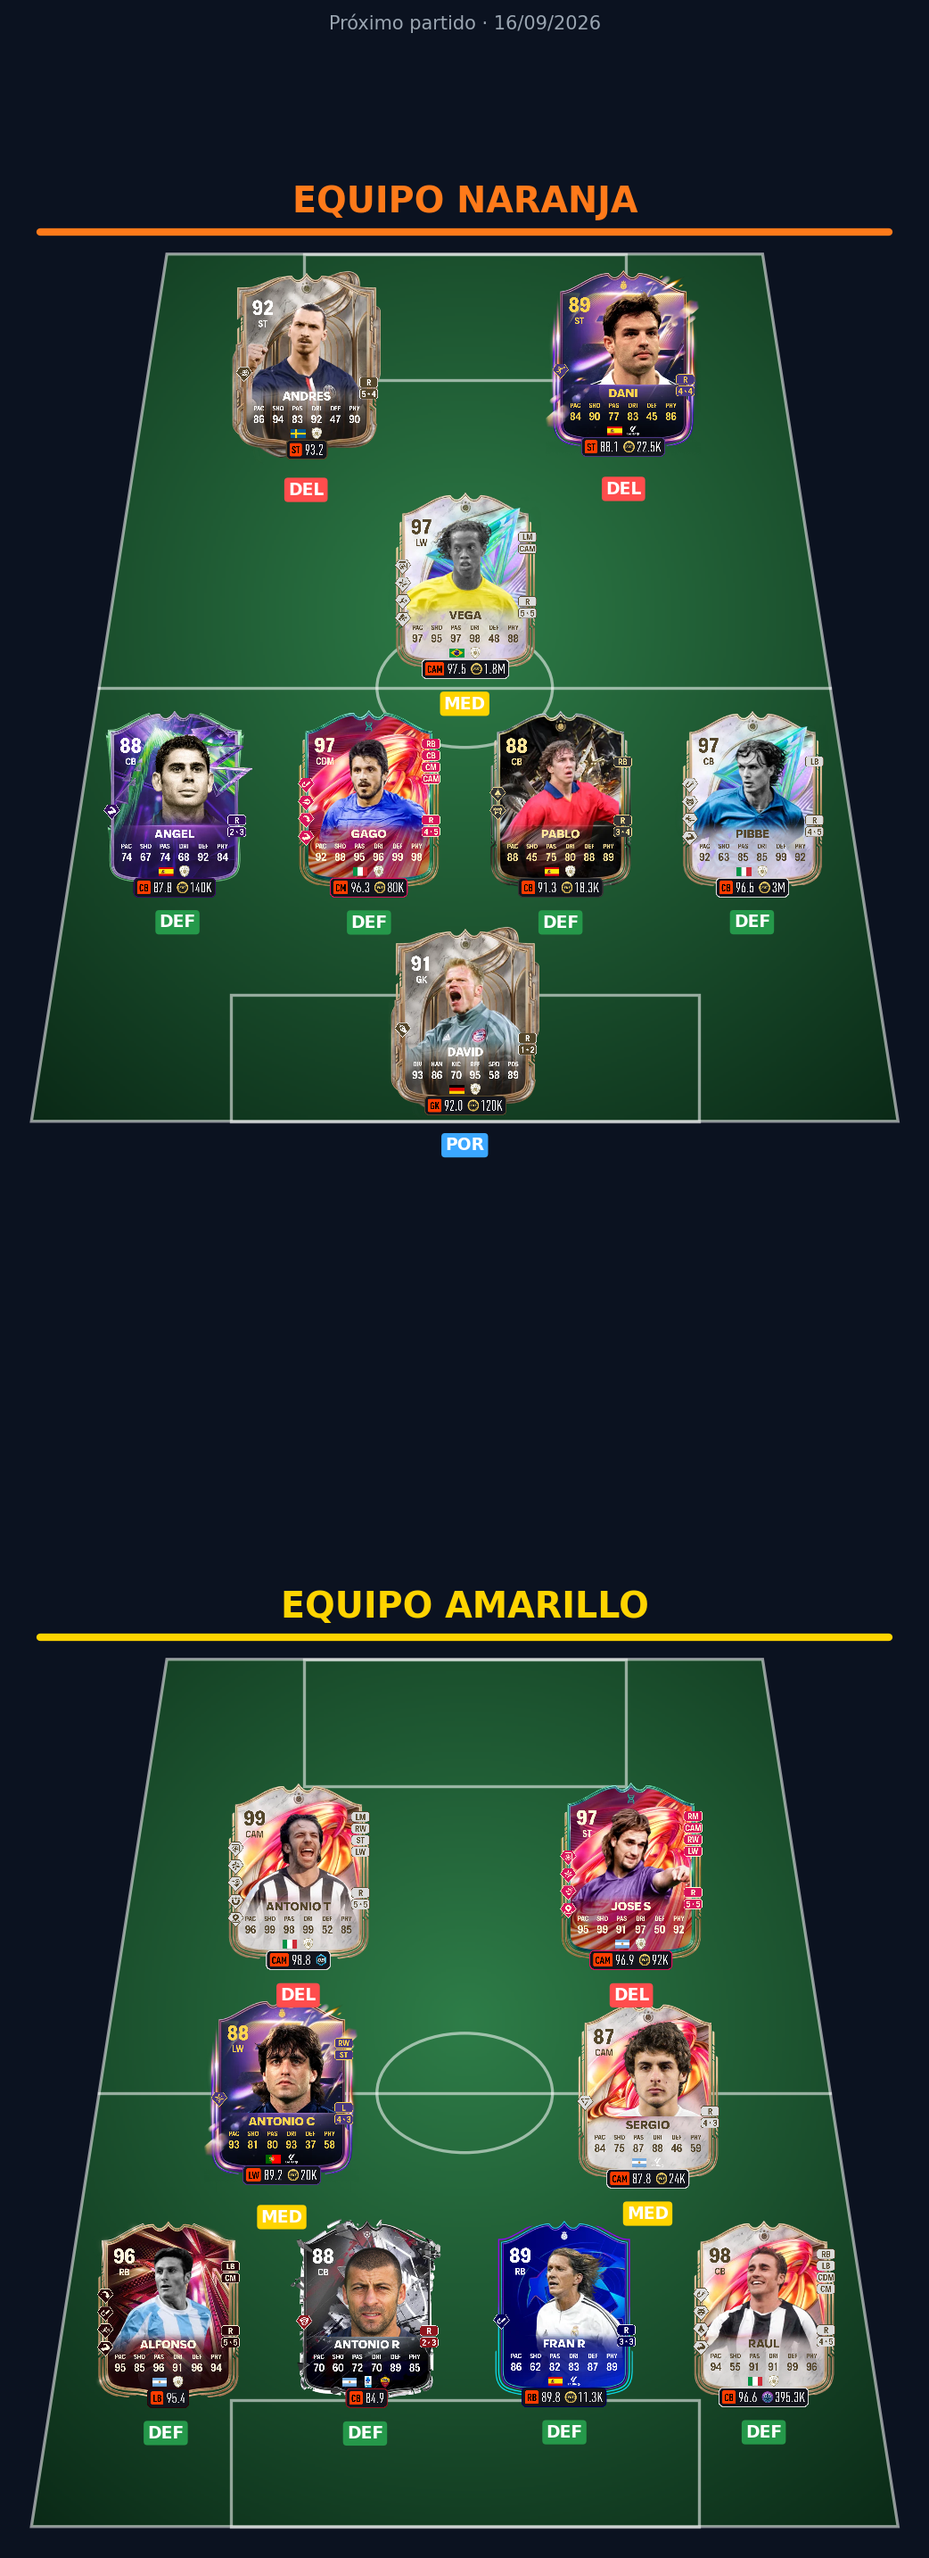
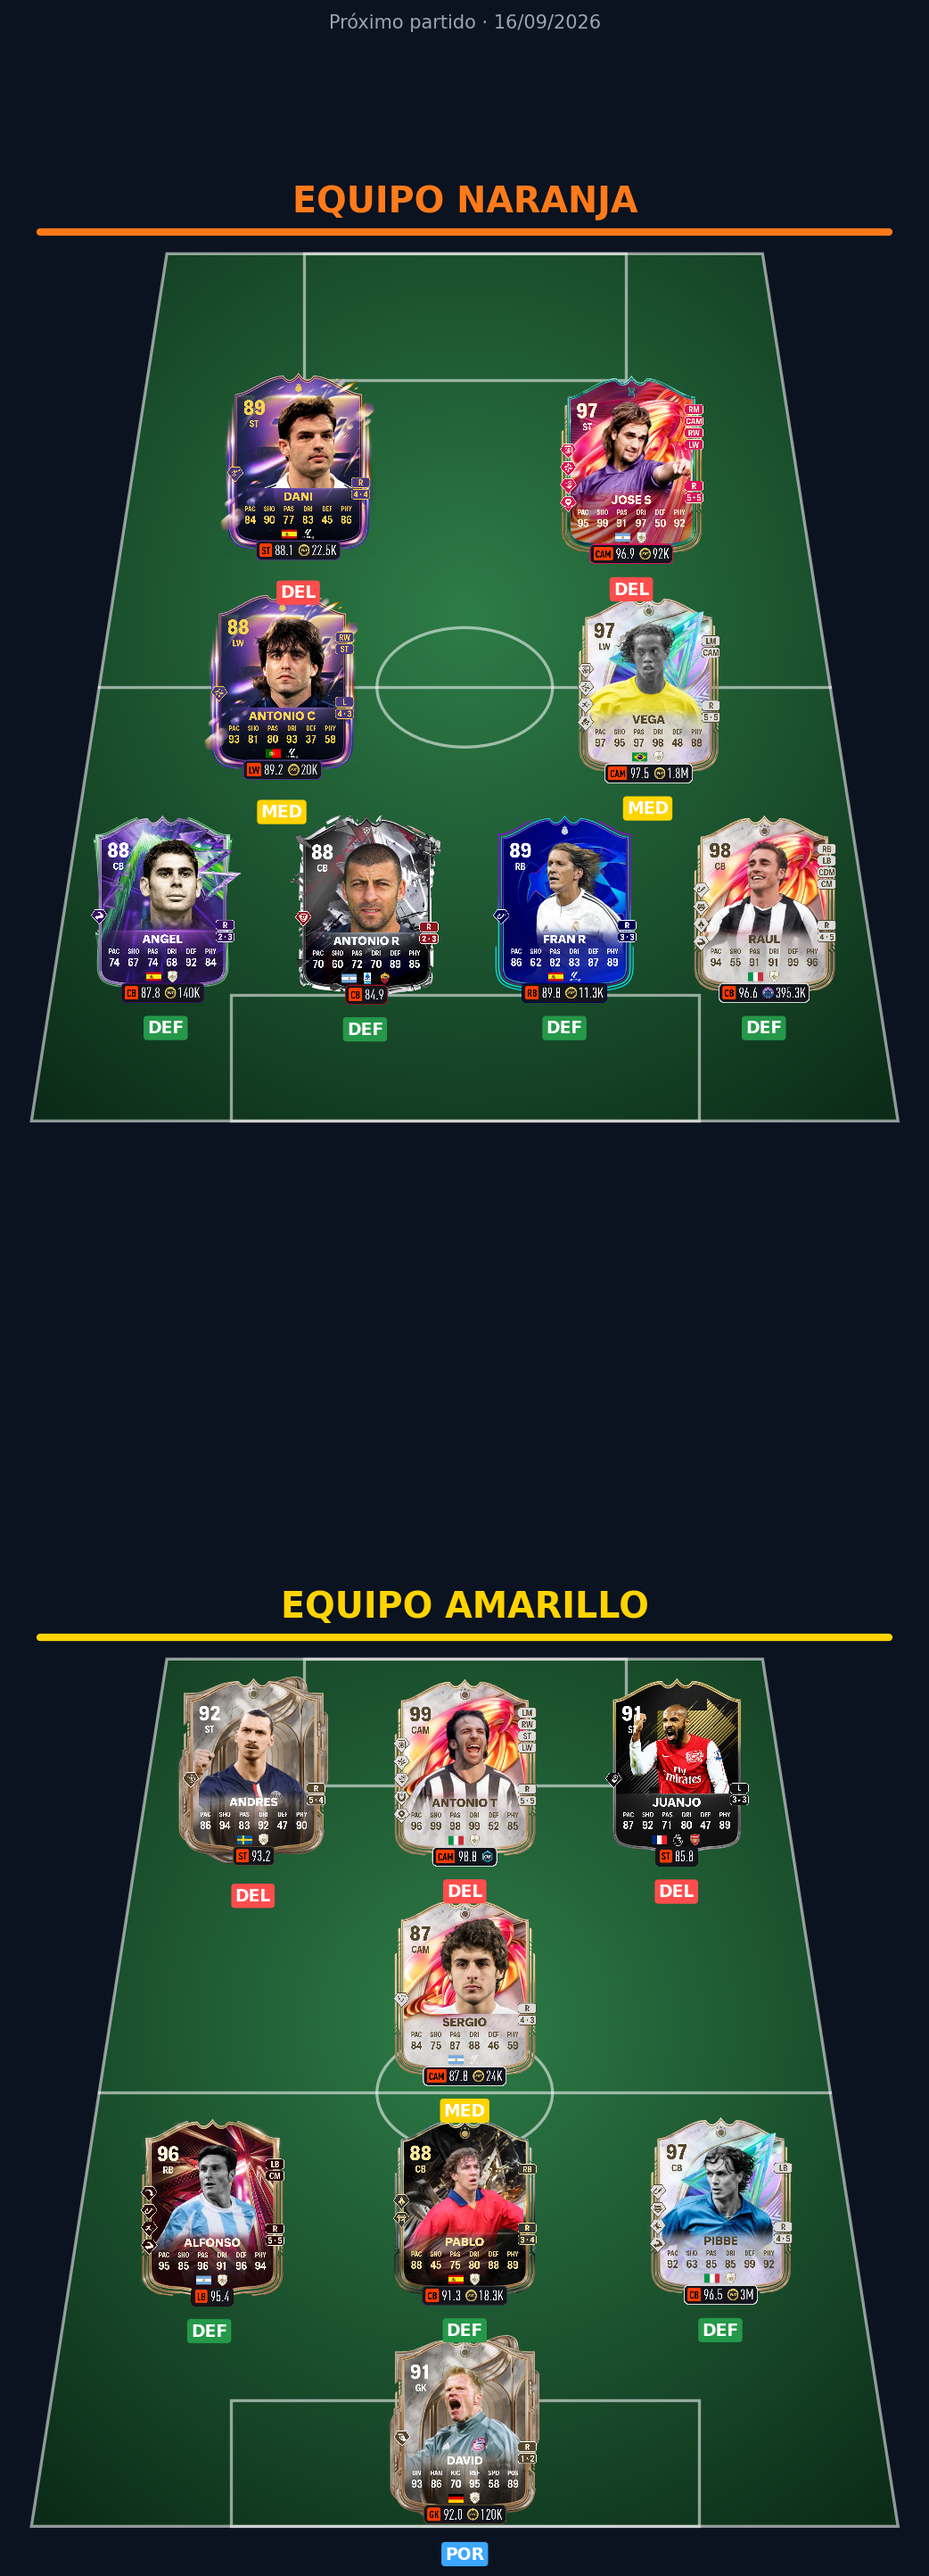
Actualizar resultados y estadisticas (15/09/2026 21:04)

diff --git a/index.html b/index.html
@@ -258,7 +258,7 @@
 <header>
   <img class="crest" src="img/escudo.png" alt="Escudo Peña QueSeFolme">
   <h1>Peña QueSeFolme</h1>
-  <p>Resultados y Estadísticas · Actualizado el 15/09/2026 15:11</p>
+  <p>Resultados y Estadísticas · Actualizado el 15/09/2026 21:04</p>
 </header>
 <nav>
   <a href="#proximo">🔜 Próximo partido</a>
@@ -274,8 +274,8 @@
     <p class="muted" style="text-align:center;">16/09/2026</p>
     <img src="img/proximo_partido.png" alt="Alineación del 16/09/2026" loading="lazy">
     <div class="scorers-row" style="margin-top:18px;">
-      <div><h3 style="color:var(--naranja);">Naranja</h3><ul class="scorers"><li>Andres <span class="muted">(DEL)</span></li><li>Angel <span class="muted">(DEF)</span></li><li>Dani <span class="muted">(DEL)</span></li><li>David <span class="muted">(POR)</span></li><li>Gago <span class="muted">(DEF)</span></li><li>Pablo <span class="muted">(DEF)</span></li><li>Pibbe <span class="muted">(DEF)</span></li><li>Vega <span class="muted">(MED)</span></li></ul></div>
-      <div><h3 style="color:var(--amarillo);">Amarillo</h3><ul class="scorers"><li>Alfonso <span class="muted">(DEF)</span></li><li>AntonioC <span class="muted">(MED)</span></li><li>AntonioR <span class="muted">(DEF)</span></li><li>AntonioT <span class="muted">(DEL)</span></li><li>FranR <span class="muted">(DEF)</span></li><li>JoseS <span class="muted">(DEL)</span></li><li>Raul <span class="muted">(DEF)</span></li><li>Sergio <span class="muted">(MED)</span></li></ul></div>
+      <div><h3 style="color:var(--naranja);">Naranja</h3><ul class="scorers"><li>Angel <span class="muted">(DEF)</span></li><li>AntonioC <span class="muted">(MED)</span></li><li>AntonioR <span class="muted">(DEF)</span></li><li>Dani <span class="muted">(DEL)</span></li><li>FranR <span class="muted">(DEF)</span></li><li>JoseS <span class="muted">(DEL)</span></li><li>Raul <span class="muted">(DEF)</span></li><li>Vega <span class="muted">(MED)</span></li></ul></div>
+      <div><h3 style="color:var(--amarillo);">Amarillo</h3><ul class="scorers"><li>Alfonso <span class="muted">(DEF)</span></li><li>Andres <span class="muted">(DEL)</span></li><li>AntonioT <span class="muted">(DEL)</span></li><li>David <span class="muted">(POR)</span></li><li>Juanjo <span class="muted">(DEL)</span></li><li>Pablo <span class="muted">(DEF)</span></li><li>Pibbe <span class="muted">(DEF)</span></li><li>Sergio <span class="muted">(MED)</span></li></ul></div>
     </div>
   </section>
   <section id="clasificacion">
